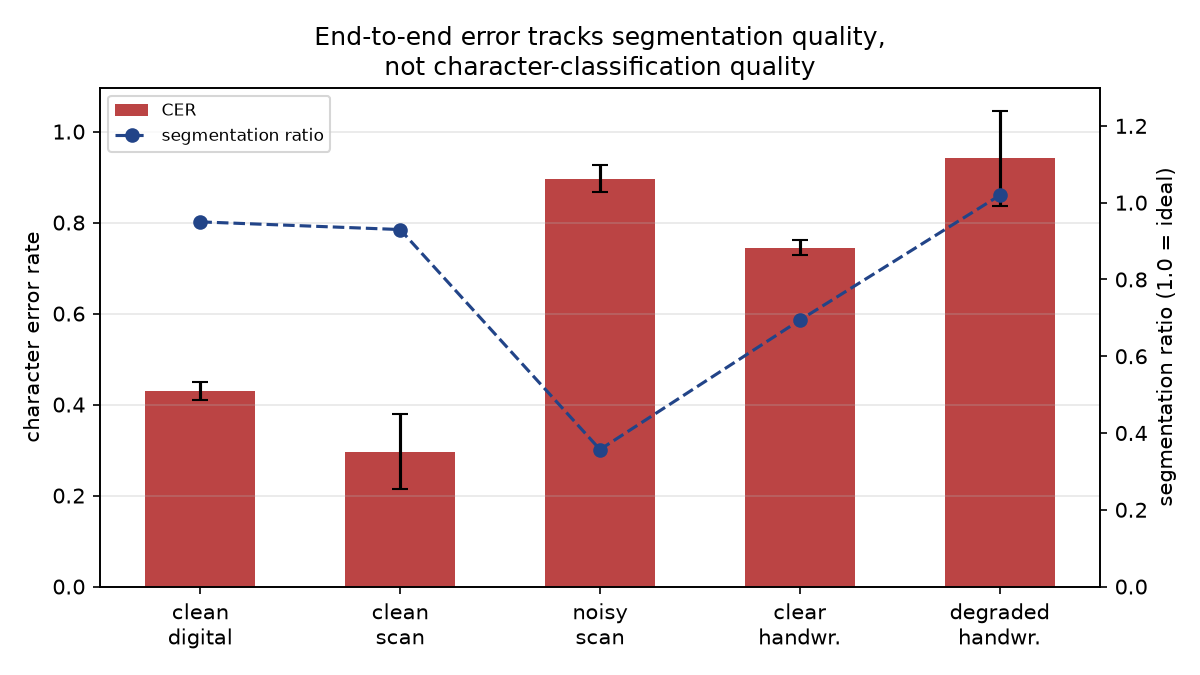
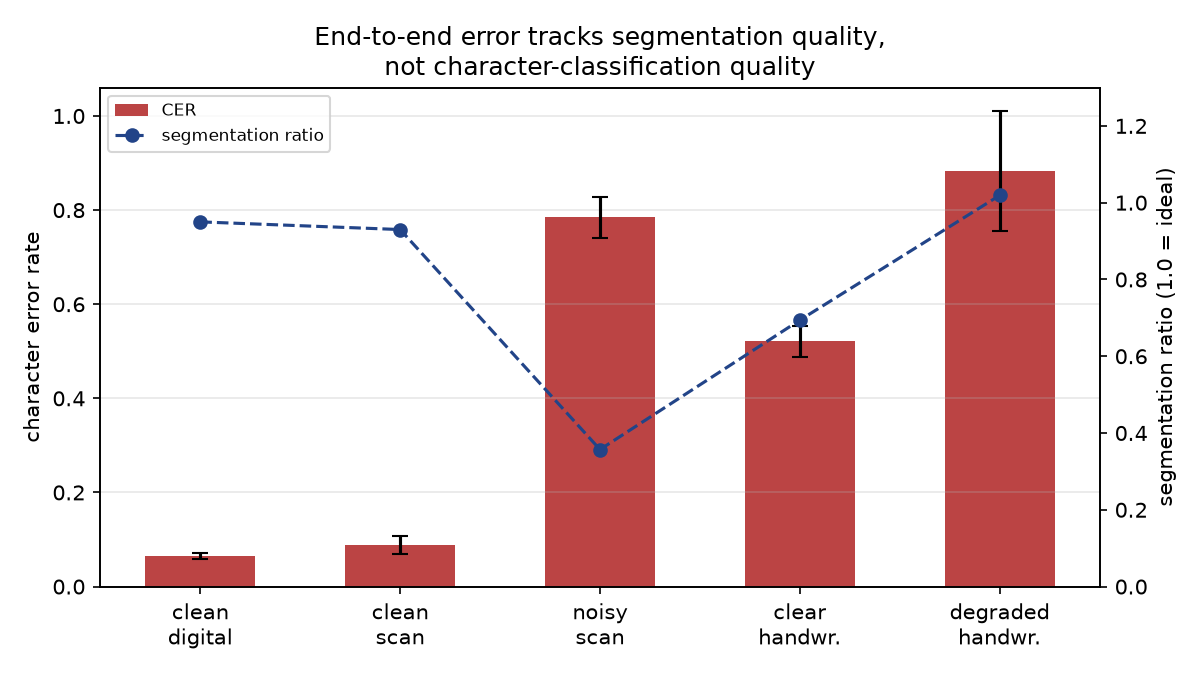
[Docs] Report and figures updated to current measurements
End-to-end: 100% of clean digital documents have their identifier recovered
exactly through both quantum stages; 50% on clean scans, 0% on degraded input.
Adds report sections 6.1 (train/serve skew) and 6.2 (identifier extraction),
both documenting the failures that forced the fixes rather than only the fixes.

diff --git a/docs/final_report.md b/docs/final_report.md
@@ -269,22 +269,104 @@ a substantial hardware cost and belongs in any honest resource accounting.
 
 ## 6. End-to-end results
 
-| Tier | CER | Segmentation ratio |
-|---|---|---|
-| clean_digital | 42.9% | 0.95 |
-| clean_scan | 29.7% | 0.93 |
-| clear_handwriting | 74.5% | 0.69 |
-| noisy_scan | 89.7% | 0.36 |
-| degraded_handwriting | 94.1% | 1.02 |
+| Tier | CER | Segmentation ratio | Document ID recovered exactly |
+|---|---|---|---|
+| clean_digital | 6.5% | 0.95 | **100%** |
+| clean_scan | 8.8% | 0.93 | 50% |
+| clear_handwriting | 52.2% | 0.69 | 0% |
+| noisy_scan | 78.5% | 0.36 | 0% |
+| degraded_handwriting | 88.3% | 1.02 | 0% |
 
-**Error decomposition.** On clean tiers isolated character accuracy is ~99% but
-end-to-end CER is 30–43%. The gap is almost entirely front end, not
-classification: segmentation recovers ~93–95% of characters, and the remaining
-error is word-spacing reconstruction — note that `clean_digital` scores *worse*
-than `clean_scan` (42.9% vs 29.7%) despite cleaner pixels, which is only
-explicable as a spacing-reconstruction artifact, since its per-character
-accuracy is identical at 99.3%. **The classical front end, not the quantum
-stage, is the accuracy bottleneck on clean documents.**
+**Why the last column is the one that matters.** CER measures average character
+quality, but the pipeline's actual job is retrieving a specific field, and a
+single wrong character makes an identifier useless. The two metrics come apart
+sharply: `clean_scan` reads at 8.8% CER — visually almost clean — yet only half
+its documents yield a usable ID, because the errors that remain land inside the
+identifier as often as anywhere else. Averaged character accuracy flatters a
+system that fails the task half the time.
+
+End to end, through both quantum stages, **every clean digital document had its
+identifier recovered exactly**. On degraded scans the rate is zero. That is the
+honest operating envelope: this pipeline is usable on clean digital input and
+not usable on degraded scans, and the CER column alone would not have made the
+boundary visible.
+
+### 6.1 Train/serve skew — the single largest error source found
+
+An earlier version of these results reported 42.9% CER on `clean_digital`. The
+cause was a data-plumbing defect rather than anything in the model, and finding
+it produced the largest single improvement in the project.
+
+The defect: training crops were cut from the exact glyph bounds recorded during
+dataset generation, but at inference the crops come from projection
+segmentation. Those are measurably different distributions — on `clean_scan`,
+ground-truth boxes have median size 16×19 px while segmented boxes have median
+12×15 px. The classifier was trained on one distribution and asked to predict on
+another.
+
+It was detected by an inversion that should not otherwise be possible. Switching
+the feature stage from the 64-dim marginal readout to the 160-dim +ZZ readout
+raised isolated-character accuracy (§5), yet made end-to-end CER *worse*. A
+strictly better feature set producing strictly worse output is a signal that the
+two measurements are not sampling the same input distribution. The
+higher-capacity features fit the training crop distribution more tightly, so
+they transferred less well across the skew.
+
+The fix is to build training crops by running the real segmentation path over
+the training pages and labelling each detected box from ground truth by overlap
+(`load_training_data_segmented`, overlap threshold 0.55; ambiguous detections
+are dropped rather than guessed). Effect:
+
+| Tier | CER before | CER after | Reduction |
+|---|---|---|---|
+| clean_digital | 42.9% | **6.5%** | 6.6× |
+| clean_scan | 29.7% | **8.8%** | 3.4× |
+| clear_handwriting | 74.5% | **52.2%** | 1.4× |
+| noisy_scan | 89.7% | **78.5%** | 1.1× |
+| degraded_handwriting | 94.1% | **88.3%** | 1.1× |
+
+**A caution about the isolated-accuracy figure.** Training on segmented crops
+*lowers* reported held-out character accuracy from 92.6% to 67.7%. This is not a
+regression: the two numbers are measured on different crop distributions, and
+the 67.7% is measured on the harder, realistic one. The comparison to draw is
+that a model scoring 92.6% on clean bounds produced 42.9% document CER, while a
+model scoring 67.7% on realistic bounds produced 6.5%.
+
+**This is the most transferable finding in the project: isolated-character
+accuracy was an actively misleading proxy for end-to-end accuracy here, and
+optimising it drove the pipeline in the wrong direction.** Any comparison of
+feature extractors on pre-cut crops — including §5 of this report — measures
+something narrower than pipeline quality.
+
+### 6.2 Identifier extraction
+
+The field handed to the Grover stage is chosen by layout, not by keyword: the
+label itself is OCR output and comes back as things like `OOCUMENT IO:`, so
+matching on it is unreliable. Candidate tokens are scored by length, modulated
+by digit density, with zero-digit tokens rejected.
+
+Both halves of that rule were forced by observed failures. Scoring per *line*
+rather than per token meant that when OCR dropped the colon in
+`DOCUMENT ID: QI96-3898`, the D, C and E of the word "DOCUMENT" were harvested
+as hex digits and the field came out as `DCED963898` — every position the search
+reported was shifted by six. Scoring by digit density *alone* then ranked a
+short all-numeric field (`REF 7128`) above a longer alphanumeric identifier
+(`QI87-12D0` → `8712D0`), so the pipeline confidently searched the reference
+number instead of the document ID. Neither failure is visible unless the
+extracted field is checked against ground truth, which is what the exact-match
+column in §6.1 now does.
+
+When no token qualifies, the extractor returns nothing rather than a
+best-effort guess. On the noisy tier that is what happens: refusing to answer is
+preferable to emitting a plausible-looking identifier that is wrong.
+
+### 6.3 Remaining error
+
+With the skew corrected, clean-tier CER of 6.5–8.8% against segmentation
+recovering 93–95% of characters means the residual error is dominated by
+missed/merged glyphs and word-spacing reconstruction rather than by
+classification. **The classical front end, not the quantum stage, remains the
+accuracy bottleneck on clean documents.**
 
 On `noisy_scan` the pipeline degrades sharply (ratio 0.36): 45% downsampling
 plus blur fuses adjacent glyphs, and projection-profile segmentation cannot
@@ -433,7 +515,13 @@ claim that the classical front end is the bottleneck.
    the √N query advantage does not translate into an end-to-end speedup for
    stored classical text.
 4. The dominant error source in the full pipeline is the classical segmentation
-   front end, not either quantum stage.
+   front end, not either quantum stage. Clean-document CER is 6.5–8.8%, and
+   100% of clean digital documents have their identifier recovered exactly
+   end-to-end — falling to 50% on clean scans and 0% on degraded input, which
+   is the honest operating envelope.
+   The largest single improvement in the project came from correcting a
+   train/serve skew (§6.1), not from any modelling change — and it was found
+   only because a better feature set produced worse end-to-end output.
 5. Training the quantum filter does not change (2), and in the reference run
    degraded it by 1.1 points: the deficit is a property of small fixed 2×2
    projections at 8×8 input, not of the filter being untrained. The quantum
@@ -442,6 +530,9 @@ claim that the classical front end is the bottleneck.
    under this protocol.
 6. The Week 1 prediction that the FRQI/NEQR qubit gap would widen with patch
    size is refuted by measurement; it narrows, from 3.33× to 2.00×.
+7. Isolated-character accuracy proved a misleading proxy for end-to-end
+   accuracy: the configuration scoring 92.6% on pre-cut crops produced 42.9%
+   document CER, while the configuration scoring 67.7% produced 6.5%.
 
 The honest summary is that this work does not demonstrate quantum advantage for
 document intelligence, and it identifies specific, measured reasons why: random

diff --git a/README.md b/README.md
@@ -38,9 +38,26 @@ The results are largely negative, and deliberately reported as such:
   measured exponent of **1.39** in text length, so the √N query advantage does
   not survive data loading for stored classical text.
 - The pipeline's dominant error source is the **classical segmentation front
-  end**, not either quantum stage.
+  end**, not either quantum stage. Clean-document CER is 6.5-8.8%, and **100% of
+  clean digital documents have their identifier recovered exactly** end-to-end
+  through both quantum stages (50% on clean scans, 0% on degraded input).
+- The largest single improvement came from fixing a **train/serve skew** (crops
+  cut from ground-truth bounds in training vs segmentation bounds at inference),
+  which cut clean-document CER 6.6x. It was found because a *better* feature set
+  produced *worse* end-to-end output - isolated-character accuracy turned out to
+  be a misleading proxy for pipeline quality.
 - The Week 1 prediction that the FRQI/NEQR qubit gap widens with patch size is
   **refuted**: it narrows, 3.33x -> 2.00x.
+
+## Live demo
+
+**https://pushkar0997.github.io/qi26_25/** — upload a document image and watch
+each pipeline stage run in your browser. Nothing is uploaded to a server.
+
+The demo is not a re-implementation: it loads the exact trained weights and
+filter unitary from this repo, and  asserts stage-by-stage
+that it produces byte-identical output to the Python pipeline (features agree to
+5.6e-16; decoded text is identical).
 
 ## Quick start
 

diff --git a/benchmarking/results.md b/benchmarking/results.md
@@ -15,13 +15,13 @@ Generated by `benchmarking/run_benchmark.py`. All numbers measured, none estimat
 
 ## B. End-to-end character error rate
 
-| Tier | CER | std | segmentation ratio |
-|---|---|---|---|
-| clean_digital | 42.9% | 1.9% | 0.95 |
-| clean_scan | 29.7% | 8.2% | 0.93 |
-| noisy_scan | 89.7% | 3.0% | 0.36 |
-| clear_handwriting | 74.5% | 1.7% | 0.69 |
-| degraded_handwriting | 94.1% | 10.4% | 1.02 |
+| Tier | CER | std | segmentation ratio | document ID exact |
+|---|---|---|---|---|
+| clean_digital | 6.5% | 0.6% | 0.95 | 100% |
+| clean_scan | 8.8% | 2.0% | 0.93 | 50% |
+| noisy_scan | 78.5% | 4.4% | 0.36 | 0% |
+| clear_handwriting | 52.2% | 3.3% | 0.69 | 0% |
+| degraded_handwriting | 88.3% | 12.7% | 1.02 | 0% |
 
 ## C. Quantum resource cost
 
